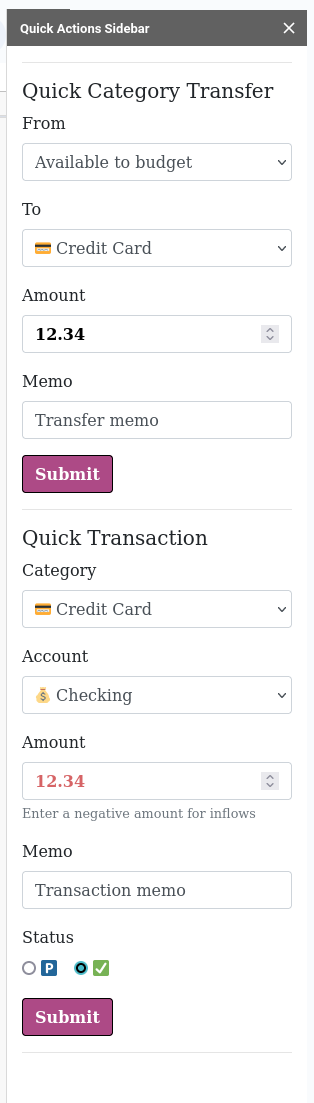
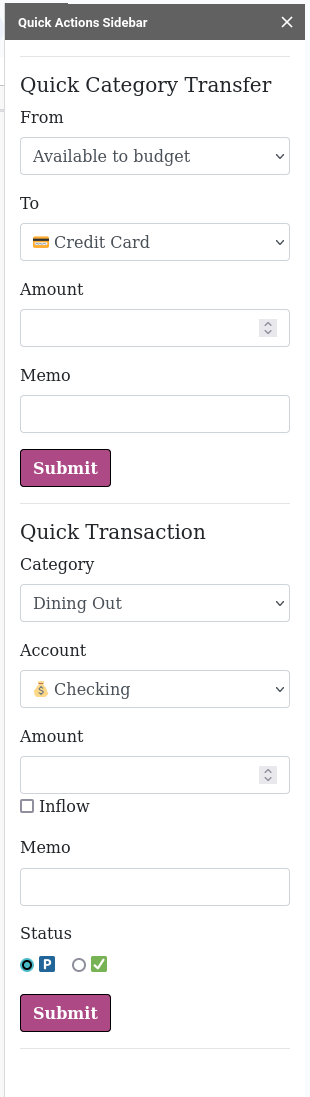
Adding inflow checkbox and additional front-end side validations

diff --git a/quick-actions-sidebar/quick-actions-sidebar.html b/quick-actions-sidebar/quick-actions-sidebar.html
@@ -42,7 +42,7 @@
         </div>
         <div class="form-group">
           <label for="transferAmount">Amount</label>
-          <input type="number" step="0.01" class="form-control input-amount" id="transferAmount">
+          <input type="number" step="0.01" min="0" class="form-control input-amount" id="transferAmount">
         </div>
         <div class="form-group">
           <label for="transferMemo">Memo</label>
@@ -67,8 +67,11 @@
         </div>
         <div class="form-group">
           <label for="transactionAmount">Amount</label>
-          <input type="number" step="0.01" class="form-control input-amount input-red-amount" id="transactionAmount">
-          <small id="transactionAmountHelp" class="form-text text-muted">Enter a negative amount for inflows</small>
+          <input type="number" step="0.01" min="0" class="form-control input-amount input-red-amount" id="transactionAmount">
+          <div class="form-check form-check-inline" id="transactionIsInflowDiv">
+            <input class="form-check-input" type="checkbox" id="transactionIsInflow" name="transactionIsInflow">
+            <label class="form-check-label" for="transactionIsInflow">Inflow</label>
+          </div>
         </div>
         <div class="form-group">
           <label for="transactionMemo">Memo</label>
@@ -104,6 +107,8 @@
 
     <!-- Custom client-side JavaScript code. -->
     <script>
+      const CATEGORY_ACCOUNT_TRANSFER = '↕ Account Transfer';
+
       function showNotification(notification, type = 'success') {
         const notificationId = `notificationId${parseInt(Math.random()*1000)}`;
         $(`<div>`, {
@@ -114,7 +119,7 @@
         }).appendTo('#notifications');
         setTimeout(() => {
             $(`#${notificationId}`).remove();
-          }, 8000);
+          }, 6000);
       }
 
       function setOptions(selectId, values) {
@@ -133,9 +138,17 @@
       }
 
       function onSubmitTransfer() {
+        if ($('#transferFrom').val() == '' || $('#transferTo').val() == '' || $('#transferAmount').val() == '') {
+          showNotification('Error: Transfer mandatory fields are missing', 'danger');
+          return;
+        }
+        const transferAmount = Number($('#transferAmount').val());
+        if (transferAmount < 0) {
+          showNotification('Error: Transfer amount must be greater or equals to $0', 'danger');
+          return;
+        }
         const transferFrom = $('#transferFrom').val();
         const transferTo = $('#transferTo').val();
-        const transferAmount = $('#transferAmount').val();
         const transferMemo = $('#transferMemo').val();
         google.script.run.withSuccessHandler(() => {
             clearValues(['transferAmount', 'transferMemo']);
@@ -146,12 +159,27 @@
       }
 
       function onSubmitTransaction() {
+        if ($('#transactionCategory').val() == '' || $('#transactionAccount').val() == '' || $('#transactionAmount').val() == '') {
+          showNotification('Error: Transaction mandatory fields are missing', 'danger');
+          return;
+        }
+        const transactionEnteredAmount = Number($('#transactionAmount').val());
+        if (transactionEnteredAmount < 0) {
+          showNotification('Error: Transaction amount must be greater or equals to $0. Use "Inflow" checkbox for inflow transactions', 'danger');
+          return;
+        }
         const transactionCategory = $('#transactionCategory').val();
+        if (transactionCategory == CATEGORY_ACCOUNT_TRANSFER && !$('#transactionToAccount').val()) {
+          showNotification('Error: Destination account is mandatory for account transfer transactions', 'danger');
+          return;
+        }
         const transactionAccount = $('#transactionAccount').val();
-        const transactionAmount = $('#transactionAmount').val();
         const transactionMemo = $('#transactionMemo').val();
         const transactionStatus = $('input[name="transactionStatus"]:checked').val();
-        const transactionToAccount = $('#transactionToAccount').val();
+        const transactionIsInflow = transactionCategory != CATEGORY_ACCOUNT_TRANSFER && $('#transactionIsInflow').prop('checked');
+        const transactionAmount = transactionIsInflow ? -1 * transactionEnteredAmount : transactionEnteredAmount;
+        const transactionToAccount = transactionCategory != CATEGORY_ACCOUNT_TRANSFER ? null : $('#transactionToAccount').val();
+
         google.script.run.withSuccessHandler(() => {
             clearValues(['transactionAmount', 'transactionMemo']);
             showNotification('Transaction created successfully', 'success');
@@ -164,18 +192,24 @@
           $('#submitTransfer').on('click', onSubmitTransfer);
           $('#submitTransaction').on('click', onSubmitTransaction);
           $('#transactionCategory').on('change', function() {
-            $("#transactionToAccountDiv").toggle(this.value == '↕ Account Transfer');
-            if (this.value != '↕ Account Transfer') {
+            $("#transactionToAccountDiv").toggle(this.value == CATEGORY_ACCOUNT_TRANSFER);
+            $('#transactionIsInflowDiv').toggle(this.value != CATEGORY_ACCOUNT_TRANSFER);
+            if (this.value != CATEGORY_ACCOUNT_TRANSFER) {
               $("#transactionToAccount").val('');
-            }
-          });
-          $('#transactionAmount').on('change', function() {
-            if (this.value == '' || Number(this.value) >= 0) {
-              $("#transactionAmount").removeClass('input-green-amount');
               $("#transactionAmount").addClass('input-red-amount');
             } else {
+              $('#transactionIsInflow').prop('checked', false);
+              $("#transactionAmount").removeClass('input-red-amount');
+              $("#transactionAmount").removeClass('input-green-amount');
+            }
+          });
+          $('#transactionIsInflow').change(function() {
+            if (this.checked) {
               $("#transactionAmount").removeClass('input-red-amount');
               $("#transactionAmount").addClass('input-green-amount');
+            } else {
+              $("#transactionAmount").removeClass('input-green-amount');
+              $("#transactionAmount").addClass('input-red-amount');
             }
           });
 
@@ -198,7 +232,7 @@
               setOptions('transactionAccount', accounts);
               setOptions('transactionToAccount', accounts);
             })
-            .getAccounts();
+            .getAllAccounts();
         });
     </script>
   </body>
